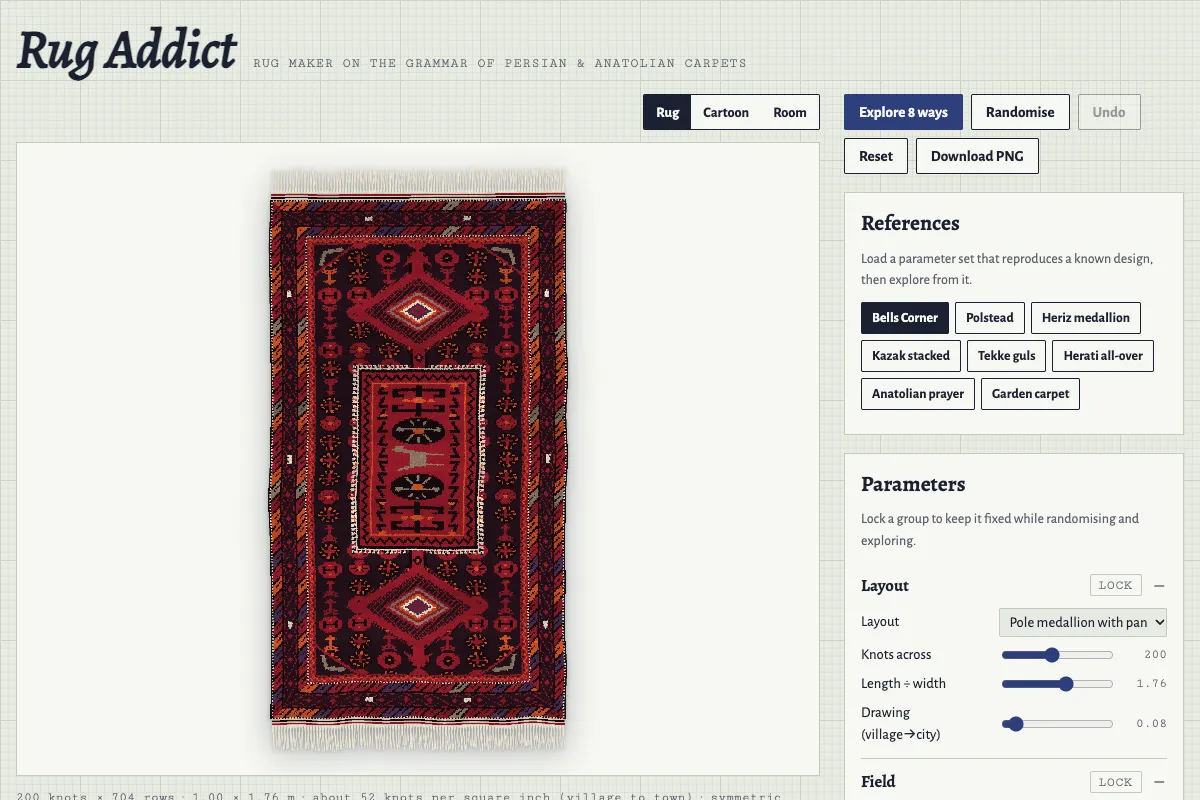
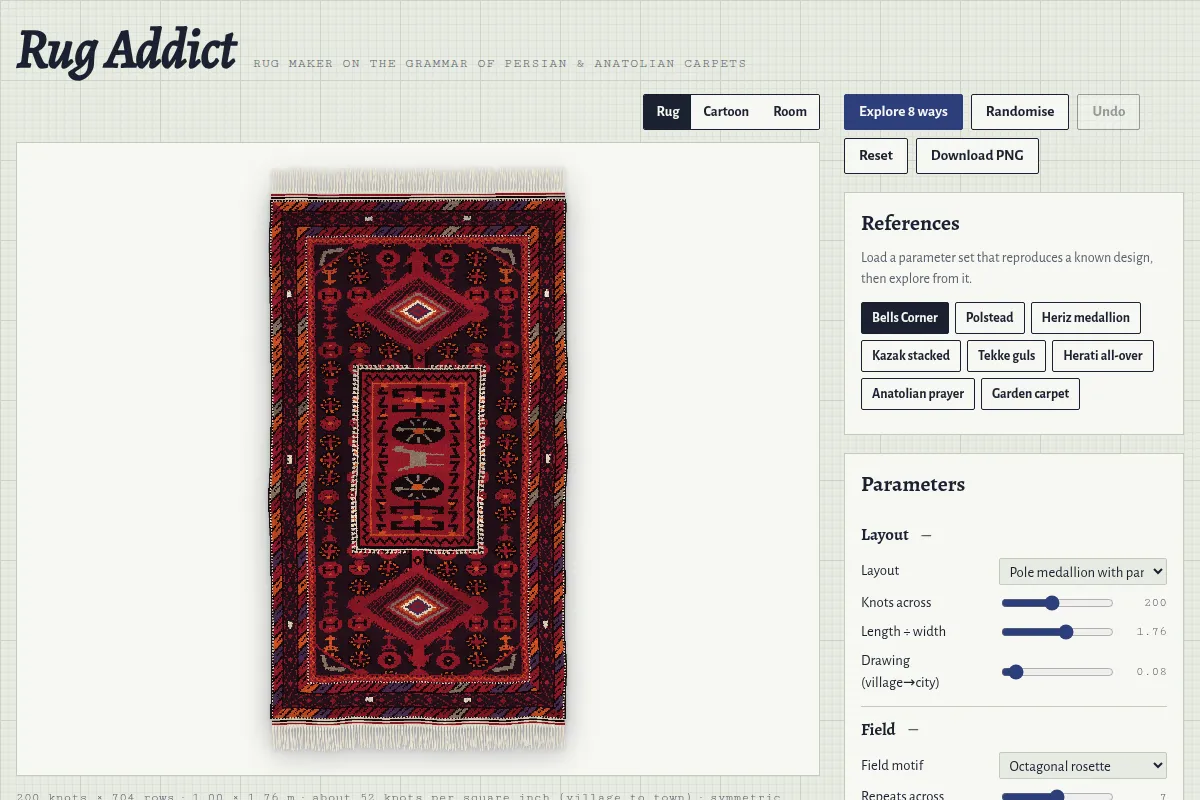
deploy: Jermolene/blog@3aaf208c401f219a992bca4369470779bb850813

diff --git a/toys/rug-addict/index.html b/toys/rug-addict/index.html
@@ -111,8 +111,6 @@ details.group[open] summary::after{content:"\2013"}
 .rows>.hint{font-size:.88rem;color:var(--muted)}
 .box>details.group{border-top:1px solid var(--rule)}
 .box>details.group .rows{padding-bottom:12px}
-.lock{margin-left:auto;font:500 .8rem var(--f-data);text-transform:uppercase;letter-spacing:.06em;color:var(--muted);background:none;border:1px solid var(--rule);padding:3px 8px;border-radius:2px;cursor:pointer}
-.lock[aria-pressed="true"]{color:var(--card);background:var(--saffron);border-color:var(--saffron)}
 .rows{display:flex;flex-direction:column;gap:7px;padding-bottom:12px}
 .row{display:grid;grid-template-columns:8.5em minmax(0,1fr) 3em;gap:10px;align-items:center}
 .row label{font-size:.92rem}
@@ -911,15 +909,12 @@ function commit(np){hist.push(committed);if(hist.length>80)hist.shift();p=Object
 // ---------- controls ----------
 function buildControls(){
  const host=$('controls');host.innerHTML='';
- const head=document.createElement('div');head.className='boxhead';head.innerHTML='<h2>Parameters</h2><span class="hint">Lock a group to keep it fixed while randomising and exploring.</span>';host.appendChild(head);
+ const head=document.createElement('div');head.className='boxhead';head.innerHTML='<h2>Parameters</h2>';host.appendChild(head);
  for(const g of GROUPS){
   const det=document.createElement('details');det.className='group';det.open=(g==='Layout'||g==='Field');
   const sum=document.createElement('summary');sum.textContent=g;
-  const lk=document.createElement('button');lk.type='button';lk.className='lock';lk.textContent='Lock';lk.setAttribute('aria-pressed','false');lk.setAttribute('aria-label','Lock '+g);
-  lk.id='lk_'+g;lk.addEventListener('click',ev=>{ev.preventDefault();ev.stopPropagation();setLock(g,!locks[g])});
-  lk.addEventListener('dblclick',ev=>ev.stopPropagation());
   sum.addEventListener('dblclick',()=>resetTo(SPECS.filter(s=>s.g===g)));
-  sum.appendChild(lk);det.appendChild(sum);
+  det.appendChild(sum);
   const rows=document.createElement('div');rows.className='rows';
   for(const s of SPECS.filter(s=>s.g===g)){
    const row=document.createElement('div');row.className='row';const id='p_'+s.k;
@@ -936,11 +931,11 @@ function buildControls(){
    lab.addEventListener('dblclick',()=>resetTo([s]));if(s.t==='rng')inp.addEventListener('dblclick',()=>resetTo([s]));
    rows.appendChild(row)}
   det.appendChild(rows);host.appendChild(det)}
- // explore: one checkbox per group, ticked = may change (the same state as the group's Lock)
+ // explore: one checkbox per group, ticked = may change (locks[g] is true when unticked)
  const gc=$('groupChecks');gc.innerHTML='';
  for(const g of GROUPS){const l=document.createElement('label');l.innerHTML='<input type="checkbox" id="g_'+g+'" checked> '+g;l.querySelector('input').addEventListener('change',e=>setLock(g,!e.target.checked));gc.appendChild(l)}
 }
-function setLock(g,on){locks[g]=on;const lk=$('lk_'+g);lk.setAttribute('aria-pressed',String(on));lk.textContent=on?'Locked':'Lock';$('g_'+g).checked=!on;regenVariants()}
+function setLock(g,on){locks[g]=on;$('g_'+g).checked=!on;regenVariants()}
 // double-click reset: a control or a whole group back to DEFAULTS, through commit (so Undo and the neighbours follow)
 function resetTo(specs){const q=Object.assign({},p);for(const s of specs)q[s.k]=DEFAULTS[s.k];if(JSON.stringify(q)!==JSON.stringify(p))commit(q)}
 function syncControls(){for(const s of SPECS){const inp=$('p_'+s.k),out=$('o_'+s.k);if(!inp)continue;
@@ -1078,7 +1073,7 @@ function drawPresets(){const host=$('presets');host.innerHTML='';
 function markPreset(i){PRESETS.forEach((_,k)=>{const b=$('preset'+k);if(b)b.setAttribute('aria-pressed',String(k===i))})}
 
 // ---------- wiring ----------
-$('rand').addEventListener('click',()=>{const q=Object.assign({},p);for(const s of SPECS)if(!locks[s.g])q[s.k]=randomValue(s);commit(q)});
+$('rand').addEventListener('click',()=>{const q=Object.assign({},p);for(const s of SPECS)q[s.k]=randomValue(s);commit(q)});
 $('reset').addEventListener('click',()=>commit(Object.assign({},DEFAULTS)));
 $('back').addEventListener('click',()=>{if(!hist.length)return;p=hist.pop();committed=Object.assign({},p);$('back').disabled=!hist.length;syncControls();renderMain();regenVariants()});
 $('reroll').addEventListener('click',regenVariants);

diff --git a/toys/sw.js b/toys/sw.js
@@ -25,7 +25,7 @@ responses can still be stored.
 "use strict";
 
 self.PRECACHE = {
-	"version": "f3bb92721d54712e",
+	"version": "79bb5fab5b811216",
 	"urls": [
 		"/toys/",
 		"/toys/animal-island/apple-touch-icon.png",
